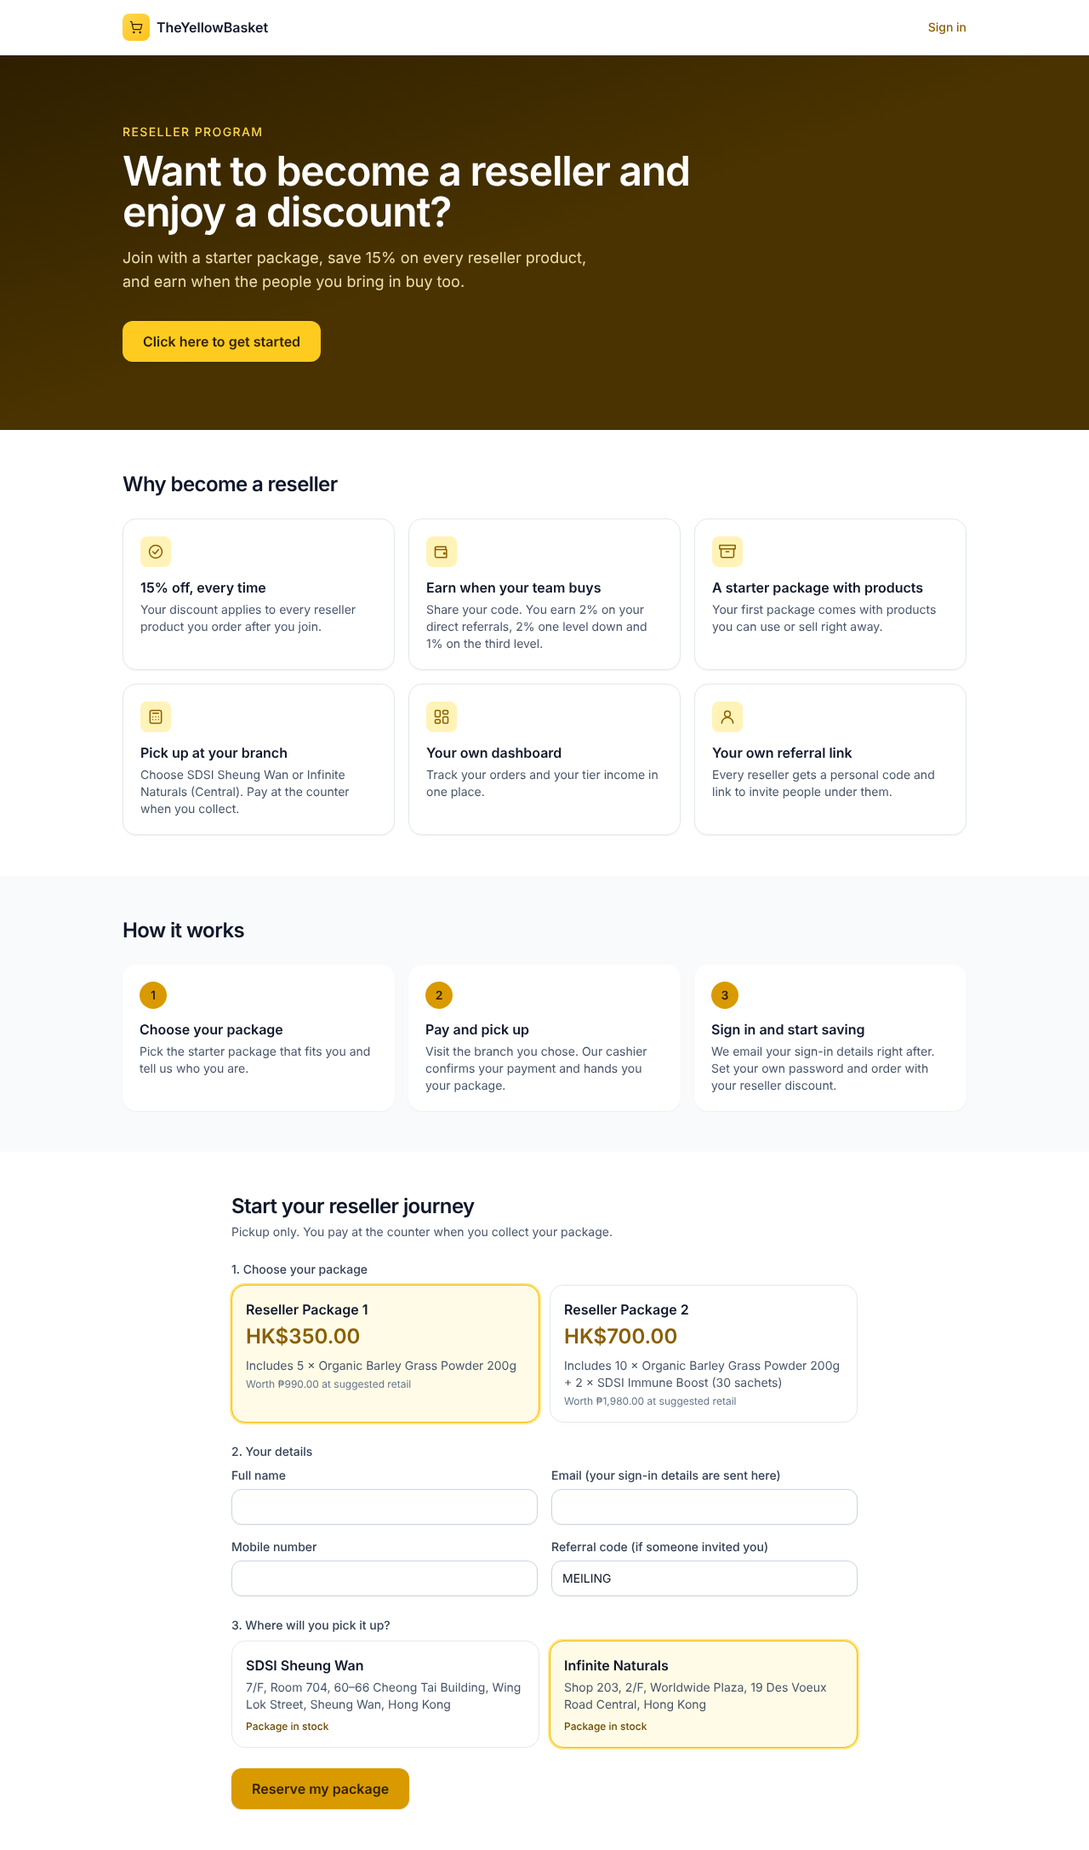
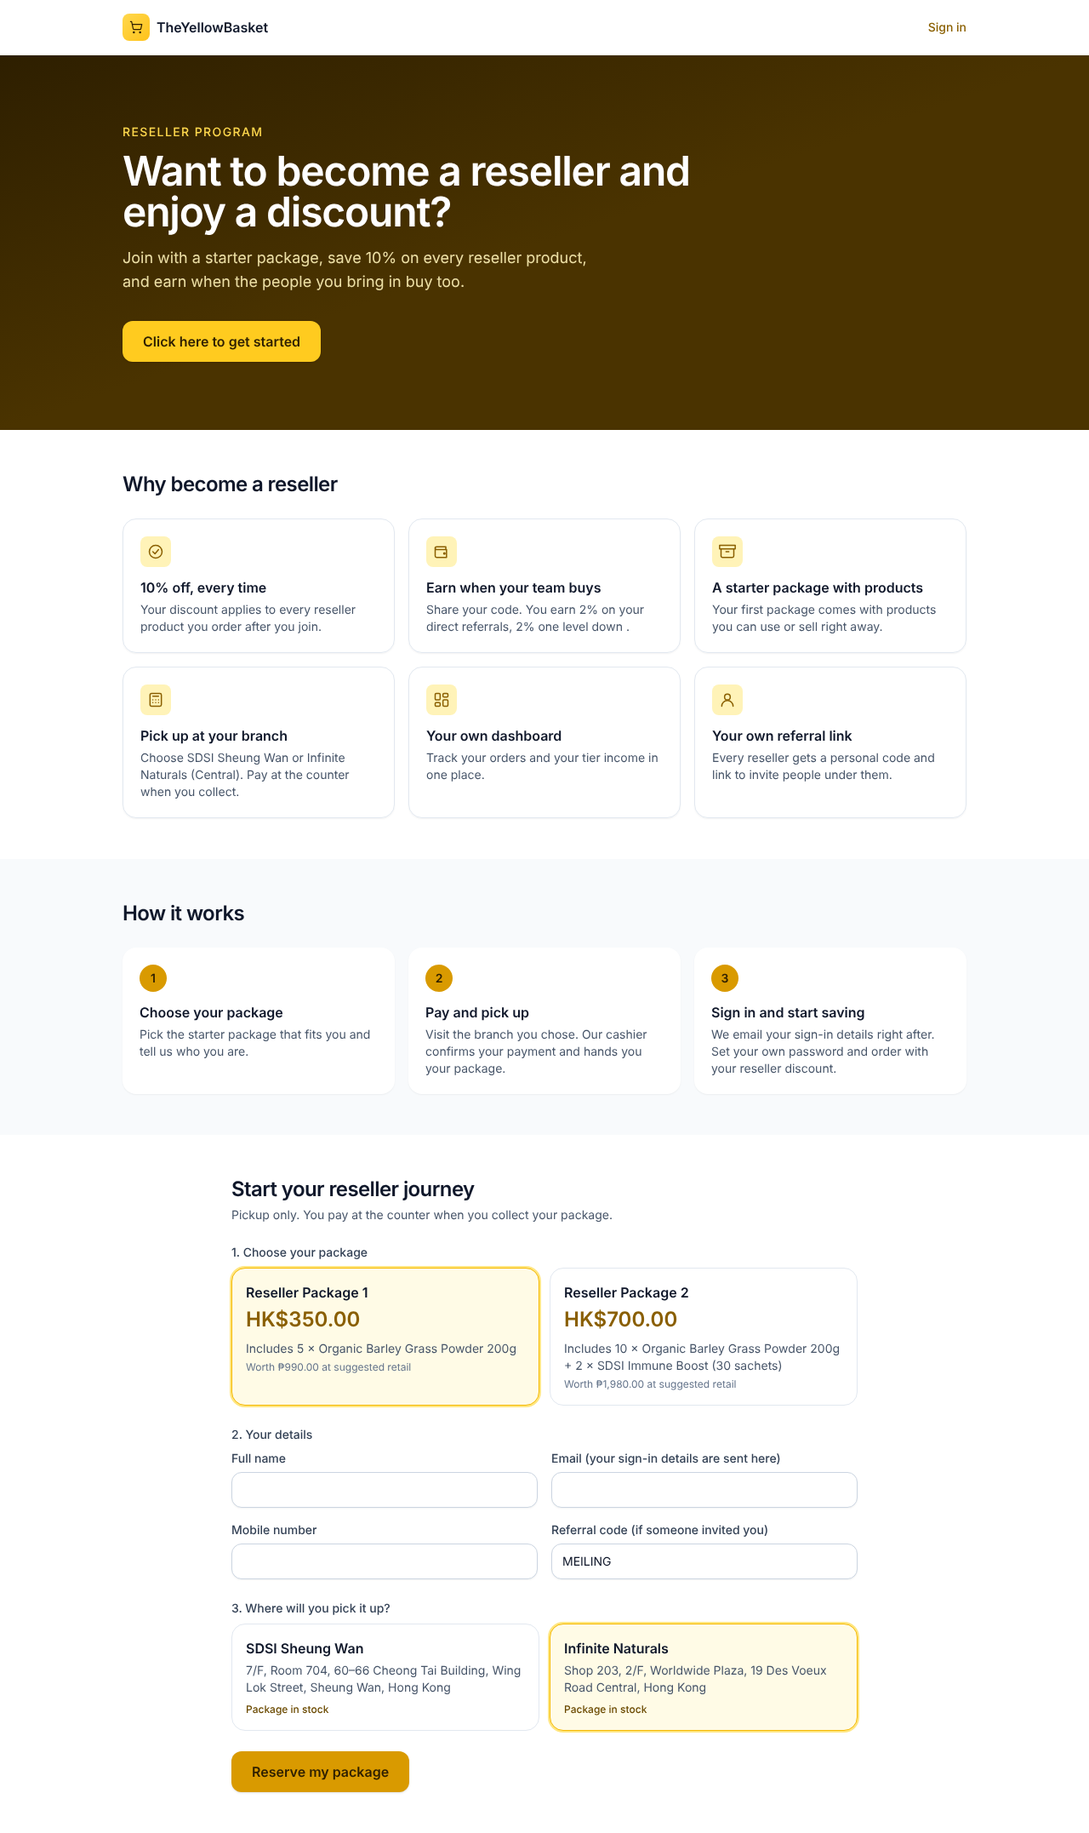
Tier levels 1-2 only (2%+2%), referrer and system fee settings, per-SKU net top-up columns and delivered income in Costing
Claude-Session: https://claude.ai/code/session_01PscwmJvon7EWf21vZUWiBD

diff --git a/lib/costing.ts b/lib/costing.ts
@@ -39,10 +39,13 @@ export interface CostingSettings {
   packageHkd: number;
   /** SRP basis of the package in PHP. The mark-up, the reseller share and the tier income are worked out on it. */
   packageSrpPhp: number;
-  /** Tier income of the upline, percent of the package SRP. Level 1, 2 and 3 above the buyer. Paid out of SDSI's top-up. */
+  /** Tier income of the upline, percent of the package SRP. Level 1 and 2 above the buyer. Paid out of SDSI's top-up. */
   tierL1Pct: number;
   tierL2Pct: number;
-  tierL3Pct: number;
+  /** Referrer share, percent of the SRP basis. Taken out of SDSI's top-up. */
+  referrerPct: number;
+  /** System fee, percent of the SRP basis. Taken out of SDSI's top-up. */
+  systemFeePct: number;
 }
 
 /** Values from the costing sheet. The exchange rate matches the sheet's 1,485 PHP = 182.36 HKD. */
@@ -53,12 +56,13 @@ export const DEFAULT_COSTING_SETTINGS: CostingSettings = {
   shippingFeeHkd: 34,
   cfRatePct: 2.5,
   cfMinHkd: 5,
-  resellerDiscountPct: 15,
+  resellerDiscountPct: 10,
   packageHkd: 350,
   packageSrpPhp: 990,
   tierL1Pct: 2,
   tierL2Pct: 2,
-  tierL3Pct: 1,
+  referrerPct: 5,
+  systemFeePct: 1,
 };
 
 /**
@@ -258,11 +262,11 @@ export function resellerCharges(
   };
 }
 
-/** Tier income of a purchase: each active sponsor above the buyer gets a percent of the SRP, levels 1 to 3. */
+/** Tier income of a purchase: each active sponsor above the buyer gets a percent of the SRP, levels 1 and 2. */
 export function orderTiers(settings: CostingSettings, upline: string[], srpPhp: number): TierShare[] {
-  const pcts = [settings.tierL1Pct, settings.tierL2Pct, settings.tierL3Pct];
-  return upline.slice(0, 3).map((userId, index) => ({
-    level: (index + 1) as 1 | 2 | 3,
+  const pcts = [settings.tierL1Pct, settings.tierL2Pct];
+  return upline.slice(0, 2).map((userId, index) => ({
+    level: (index + 1) as 1 | 2,
     userId,
     pct: pcts[index],
     php: roundMoney((srpPhp * pcts[index]) / 100),
@@ -330,7 +334,8 @@ const RANGES: Record<keyof CostingSettings, { label: string; min: number; max: n
   packageSrpPhp: { label: 'Package SRP', min: 0, max: 1_000_000 },
   tierL1Pct: { label: 'Tier level 1 %', min: 0, max: 50 },
   tierL2Pct: { label: 'Tier level 2 %', min: 0, max: 50 },
-  tierL3Pct: { label: 'Tier level 3 %', min: 0, max: 50 },
+  referrerPct: { label: 'Referrer %', min: 0, max: 50 },
+  systemFeePct: { label: 'System fee %', min: 0, max: 50 },
 };
 
 export const SETTING_LABEL: Record<keyof CostingSettings, string> = {
@@ -345,7 +350,8 @@ export const SETTING_LABEL: Record<keyof CostingSettings, string> = {
   packageSrpPhp: 'Reseller package SRP basis (PHP)',
   tierL1Pct: 'Tier income level 1 (% of package SRP)',
   tierL2Pct: 'Tier income level 2 (% of package SRP)',
-  tierL3Pct: 'Tier income level 3 (% of package SRP)',
+  referrerPct: 'Referrer (% of SRP basis)',
+  systemFeePct: 'System fees (% of SRP basis)',
 };
 
 export function validateSettings(patch: Partial<CostingSettings>): string | null {
@@ -382,7 +388,9 @@ export interface PackageBreakdown {
   grossPhp: number;
   resellerPhp: number;
   tierPoolPhp: number;
-  tiers: { level: 1 | 2 | 3; userId: string; pct: number; php: number }[];
+  referrerPhp: number;
+  systemFeePhp: number;
+  tiers: { level: 1 | 2; userId: string; pct: number; php: number }[];
   /** SDSI's net: gross top-up, less the reseller share and the tier income actually paid. */
   netPhp: number;
 }
@@ -394,31 +402,35 @@ export interface PackageBreakdown {
  */
 export function packageBreakdown(settings: CostingSettings, upline: string[]): PackageBreakdown {
   const srp = settings.packageSrpPhp;
-  const pcts = [settings.tierL1Pct, settings.tierL2Pct, settings.tierL3Pct];
-  const tiers = upline.slice(0, 3).map((userId, index) => ({
-    level: (index + 1) as 1 | 2 | 3,
+  const pcts = [settings.tierL1Pct, settings.tierL2Pct];
+  const tiers = upline.slice(0, 2).map((userId, index) => ({
+    level: (index + 1) as 1 | 2,
     userId,
     pct: pcts[index],
     php: roundMoney((srp * pcts[index]) / 100),
   }));
   const grossPhp = roundMoney((srp * settings.markupPct) / 100);
   const resellerPhp = roundMoney((srp * settings.resellerDiscountPct) / 100);
+  const referrerPhp = roundMoney((srp * settings.referrerPct) / 100);
+  const systemFeePhp = roundMoney((srp * settings.systemFeePct) / 100);
   const paid = roundMoney(tiers.reduce((sum, tier) => sum + tier.php, 0));
   return {
     grossPhp,
     resellerPhp,
     tierPoolPhp: roundMoney((srp * pcts.reduce((a, b) => a + b, 0)) / 100),
+    referrerPhp,
+    systemFeePhp,
     tiers,
-    netPhp: roundMoney(grossPhp - resellerPhp - paid),
+    netPhp: roundMoney(grossPhp - resellerPhp - referrerPhp - systemFeePhp - paid),
   };
 }
 
-/** The active resellers above a buyer, nearest first, up to 3 levels. A sponsor who is not active yet is skipped. */
+/** The active resellers above a buyer, nearest first, up to 2 levels. A sponsor who is not active yet is skipped. */
 export function uplineOf(users: User[], activeIds: Set<string>, buyerId: string): string[] {
   const chain: string[] = [];
   const seen = new Set<string>([buyerId]);
   let current = users.find((user) => user.id === buyerId)?.sponsorId;
-  while (current && !seen.has(current) && chain.length < 3) {
+  while (current && !seen.has(current) && chain.length < 2) {
     seen.add(current);
     if (activeIds.has(current)) chain.push(current);
     current = users.find((user) => user.id === current)?.sponsorId;
@@ -452,4 +464,48 @@ export function makePackageSale(
     tiers: split.tiers,
     netPhp: split.netPhp,
   };
+}
+
+/** Income sheet of one SKU, worked out on its Net SRP (990 -> top-up 495, reseller 99, referrer 49.5, tier 39.6, fees 9.9, net 297). */
+export interface SkuIncome {
+  grossTopUpPhp: number;
+  resellerPhp: number;
+  referrerPhp: number;
+  tierPhp: number;
+  systemFeePhp: number;
+  deductionsPhp: number;
+  netTopUpPhp: number;
+  /** Net top-up as a percent of the Net SRP. */
+  netPct: number;
+}
+
+export function skuIncome(netSrpPhp: number, settings: CostingSettings): SkuIncome {
+  const part = (pct: number) => roundMoney((netSrpPhp * pct) / 100);
+  const grossTopUpPhp = part(settings.markupPct);
+  const resellerPhp = part(settings.resellerDiscountPct);
+  const referrerPhp = part(settings.referrerPct);
+  const tierPhp = part(settings.tierL1Pct + settings.tierL2Pct);
+  const systemFeePhp = part(settings.systemFeePct);
+  const deductionsPhp = roundMoney(resellerPhp + referrerPhp + tierPhp + systemFeePhp);
+  const netTopUpPhp = roundMoney(grossTopUpPhp - deductionsPhp);
+  return {
+    grossTopUpPhp,
+    resellerPhp,
+    referrerPhp,
+    tierPhp,
+    systemFeePhp,
+    deductionsPhp,
+    netTopUpPhp,
+    netPct: netSrpPhp > 0 ? roundMoney((netTopUpPhp / netSrpPhp) * 100) : 0,
+  };
+}
+
+/** Settings from storage may lack newer fields (or hold removed ones): fill from the defaults. */
+export function normalizeSettings(saved: Record<string, unknown> | undefined): CostingSettings {
+  const next = { ...DEFAULT_COSTING_SETTINGS } as unknown as Record<string, number>;
+  for (const key of Object.keys(DEFAULT_COSTING_SETTINGS)) {
+    const value = saved?.[key];
+    if (typeof value === 'number' && Number.isFinite(value)) next[key] = value;
+  }
+  return next as unknown as CostingSettings;
 }

diff --git a/components/accounting/CostingView.tsx b/components/accounting/CostingView.tsx
@@ -11,6 +11,7 @@ import {
   computeCosting,
   validatePickupPrice,
   validateSettings,
+  skuIncome,
   type CostingSettings,
 } from '@/lib/costing';
 import { formatCurrency, formatDateTime, formatHkd } from '@/lib/format';
@@ -212,6 +213,7 @@ function CostingEditor() {
     setSkuCategory,
     setSkuPackage,
     addSku,
+    orders,
   } = useAppData();
 
   const [prices, setPrices] = useState<Record<string, string>>({});
@@ -225,6 +227,25 @@ function CostingEditor() {
   const [srpError, setSrpError] = useState<string | null>(null);
 
   const saved = costing.settings;
+
+  // Income earned: every delivered unit of an approved or live SKU brings in its net top-up. Packages count in package sales.
+  const earned = useMemo(() => {
+    const byItem = new Map<string, { units: number; php: number }>();
+    const counted = new Set(costing.rows.filter((r) => r.status !== 'draft').map((r) => r.itemId));
+    const packageIds = new Set(items.filter((i) => i.package).map((i) => i.id));
+    let total = 0;
+    for (const order of orders) {
+      if (order.status !== 'delivered') continue;
+      for (const line of order.lines) {
+        if (!counted.has(line.itemId) || packageIds.has(line.itemId)) continue;
+        const php = skuIncome(line.total, costing.settings).netTopUpPhp;
+        const cur = byItem.get(line.itemId) ?? { units: 0, php: 0 };
+        byItem.set(line.itemId, { units: cur.units + line.quantity, php: cur.php + php });
+        total += php;
+      }
+    }
+    return { byItem, total: Math.round(total * 100) / 100 };
+  }, [orders, items, costing.rows, costing.settings]);
 
   // Settings as they would be after saving. A box that is empty or not valid keeps the saved value.
   const settingErrors: Partial<Record<keyof CostingSettings, string>> = {};
@@ -533,6 +554,9 @@ function CostingEditor() {
           ))}
           <span className="text-slate-400">Use the merchant filter or search above to pick which SKUs.</span>
         </div>
+        <div className="border-b border-slate-100 bg-emerald-50/60 px-5 py-2.5 text-xs text-emerald-800">
+          Net income from delivered orders (approved and live SKUs, packages excluded): <strong>{formatCurrency(earned.total)}</strong>
+        </div>
         <div className="overflow-x-auto">
           <table className="min-w-full text-sm">
             <thead className="bg-slate-50 text-xs font-semibold uppercase tracking-wide text-slate-500">
@@ -549,6 +573,15 @@ function CostingEditor() {
                 <th className="px-3 py-3 text-right">CF ({preview.cfRatePct}%, min {preview.cfMinHkd})</th>
                 <th className="px-3 py-3 text-right">Net COD (HKD)</th>
                 <th className="px-3 py-3 text-right">Net remittance (PHP)</th>
+                <th className="px-3 py-3 text-right">SDSI gross top-up</th>
+                <th className="px-3 py-3 text-right">Reseller discount {preview.resellerDiscountPct}%</th>
+                <th className="px-3 py-3 text-right">Referrer {preview.referrerPct}%</th>
+                <th className="px-3 py-3 text-right">Tier (1-2) {preview.tierL1Pct + preview.tierL2Pct}%</th>
+                <th className="px-3 py-3 text-right">System fees {preview.systemFeePct}%</th>
+                <th className="px-3 py-3 text-right">Net top-up (income)</th>
+                <th className="px-3 py-3 text-right">Net %</th>
+                <th className="px-3 py-3 text-right">Delivered (pcs)</th>
+                <th className="px-3 py-3 text-right">Income earned (PHP)</th>
                 <th className="px-3 py-3 text-left">Status</th>
                 <th className="px-3 py-3" />
               </tr>
@@ -556,7 +589,7 @@ function CostingEditor() {
             <tbody className="divide-y divide-slate-100">
               {rows.length === 0 ? (
                 <tr>
-                  <td colSpan={14} className="px-5 py-10 text-center text-slate-500">
+                  <td colSpan={23} className="px-5 py-10 text-center text-slate-500">
                     No costing rows match.
                   </td>
                 </tr>
@@ -704,6 +737,15 @@ function CostingEditor() {
                         {result.netCodHkd === null ? '—' : result.netCodHkd.toFixed(2)}
                       </td>
                       <td className="px-3 py-3 text-right">{formatCurrency(result.netRemittancePhp)}</td>
+                      <td className="px-3 py-3 text-right">{formatCurrency(skuIncome(result.netSrpPhp, preview).grossTopUpPhp)}</td>
+                      <td className="px-3 py-3 text-right">{formatCurrency(skuIncome(result.netSrpPhp, preview).resellerPhp)}</td>
+                      <td className="px-3 py-3 text-right">{formatCurrency(skuIncome(result.netSrpPhp, preview).referrerPhp)}</td>
+                      <td className="px-3 py-3 text-right">{formatCurrency(skuIncome(result.netSrpPhp, preview).tierPhp)}</td>
+                      <td className="px-3 py-3 text-right">{formatCurrency(skuIncome(result.netSrpPhp, preview).systemFeePhp)}</td>
+                      <td className="px-3 py-3 text-right font-semibold text-emerald-700">{formatCurrency(skuIncome(result.netSrpPhp, preview).netTopUpPhp)}</td>
+                      <td className="px-3 py-3 text-right">{skuIncome(result.netSrpPhp, preview).netPct}%</td>
+                      <td className="px-3 py-3 text-right">{item.package ? '—' : earned.byItem.get(item.id)?.units ?? 0}</td>
+                      <td className="px-3 py-3 text-right font-semibold">{item.package ? '—' : formatCurrency(earned.byItem.get(item.id)?.php ?? 0)}</td>
                       <td className="min-w-[10rem] px-3 py-3">
                         {(() => {
                           const dirty = changed || Boolean(error);

diff --git a/components/resellers/ResellersView.tsx b/components/resellers/ResellersView.tsx
@@ -16,7 +16,7 @@ export function ResellersView() {
   const { users, items, orders, packageSales, costing, outbox } = useAppData();
   const { settings } = costing;
   const nameOf = (id: string) => users.find((candidate) => candidate.id === id)?.name ?? id;
-  const ledger = useMemo(() => resellerLedger(orders, packageSales, items, settings.markupPct), [orders, packageSales, items, settings.markupPct]);
+  const ledger = useMemo(() => resellerLedger(orders, packageSales, items, settings.markupPct, settings.referrerPct + settings.systemFeePct), [orders, packageSales, items, settings.markupPct, settings.referrerPct, settings.systemFeePct]);
   const summaries = useMemo(() => resellerSummaries(users, ledger, packageSales, orders), [users, ledger, packageSales, orders]);
   if (!user) return null;
   const showPeso = user.role === 'admin';
@@ -24,13 +24,13 @@ export function ResellersView() {
   const counted = ledger.filter((row) => row.counted);
   const sum = (pick: (row: (typeof ledger)[number]) => number) => counted.reduce((total, row) => total + pick(row), 0);
   const tierPaid = sum((row) => row.tiers.reduce((t, tier) => t + tier.php, 0));
-  const tierPct = settings.tierL1Pct + settings.tierL2Pct + settings.tierL3Pct;
+  const tierPct = settings.tierL1Pct + settings.tierL2Pct;
 
   return (
     <div className="space-y-6">
       <PageHeader
         title="Resellers"
-        description={`Buying the reseller package (${formatHkd(settings.packageHkd)}) makes someone a reseller. Every purchase after that has ${settings.resellerDiscountPct}% off, and ${tierPct}% of the SRP goes to the 3 sponsors above (L1 ${settings.tierL1Pct}% · L2 ${settings.tierL2Pct}% · L3 ${settings.tierL3Pct}%). All of it comes out of SDSI's ${settings.markupPct}% top-up.`}
+        description={`Buying the reseller package (${formatHkd(settings.packageHkd)}) makes someone a reseller. Every purchase after that has ${settings.resellerDiscountPct}% off, and ${tierPct}% of the SRP goes to the 2 sponsors above (L1 ${settings.tierL1Pct}% · L2 ${settings.tierL2Pct}%). All of it comes out of SDSI's ${settings.markupPct}% top-up.`}
       />
 
       {showPeso ? (

diff --git a/components/landing/BecomeReseller.tsx b/components/landing/BecomeReseller.tsx
@@ -20,7 +20,7 @@ const STEPS = [
 /** Public page: no sign-in. Someone who wants to become a reseller picks a package and leaves their details. */
 export function BecomeReseller() {
   const { items, products, costing, orders, applyForReseller } = useAppData();
-  const { resellerDiscountPct, tierL1Pct, tierL2Pct, tierL3Pct } = costing.settings;
+  const { resellerDiscountPct, tierL1Pct, tierL2Pct } = costing.settings;
   const packages = useMemo(() => items.filter((item) => item.package && isSellable(item, costing)), [items, costing]);
 
   const [itemId, setItemId] = useState('');
@@ -54,7 +54,7 @@ export function BecomeReseller() {
 
   const benefits = [
     { icon: 'check' as const, title: `${resellerDiscountPct}% off, every time`, text: 'Your discount applies to every reseller product you order after you join.' },
-    { icon: 'wallet' as const, title: 'Earn when your team buys', text: `Share your code. You earn ${tierL1Pct}% on your direct referrals, ${tierL2Pct}% one level down and ${tierL3Pct}% on the third level.` },
+    { icon: 'wallet' as const, title: 'Earn when your team buys', text: `Share your code. You earn ${tierL1Pct}% on your direct referrals, ${tierL2Pct}% one level down .` },
     { icon: 'box' as const, title: 'A starter package with products', text: 'Your first package comes with products you can use or sell right away.' },
     { icon: 'pos' as const, title: 'Pick up at your branch', text: 'Choose SDSI Sheung Wan or Infinite Naturals (Central). Pay at the counter when you collect.' },
     { icon: 'dashboard' as const, title: 'Your own dashboard', text: 'Track your orders and your tier income in one place.' },

diff --git a/components/accounting/PackageIncomeCard.tsx b/components/accounting/PackageIncomeCard.tsx
@@ -13,15 +13,17 @@ export function PackageIncomeCard() {
   const { costing, packageSales, orders, items } = useAppData();
   const { settings } = costing;
   const srp = settings.packageSrpPhp;
-  const sample = packageBreakdown(settings, ['sample-1', 'sample-2', 'sample-3']);
-  const counted = resellerLedger(orders, packageSales, items, settings.markupPct).filter((row) => row.counted);
+  const sample = packageBreakdown(settings, ['sample-1', 'sample-2']);
+  const counted = resellerLedger(orders, packageSales, items, settings.markupPct, settings.referrerPct + settings.systemFeePct).filter((row) => row.counted);
   const sum = (pick: (row: (typeof counted)[number]) => number) => counted.reduce((total, row) => total + pick(row), 0);
   const srpTotal = sum((row) => row.srpPhp);
   const tierPaid = sum((row) => row.tiers.reduce((t, tier) => t + tier.php, 0));
   const rows: [string, number, number][] = [
     ['Top-up (gross)', sample.grossPhp, srp],
     [`Reseller ${settings.resellerDiscountPct}%`, -sample.resellerPhp, srp],
-    [`Tier income ${settings.tierL1Pct + settings.tierL2Pct + settings.tierL3Pct}% (L1 ${settings.tierL1Pct} / L2 ${settings.tierL2Pct} / L3 ${settings.tierL3Pct})`, -sample.tierPoolPhp, srp],
+    [`Referrer ${settings.referrerPct}%`, -sample.referrerPhp, srp],
+    [`System fees ${settings.systemFeePct}%`, -sample.systemFeePhp, srp],
+    [`Tier income ${settings.tierL1Pct + settings.tierL2Pct}% (L1 ${settings.tierL1Pct} / L2 ${settings.tierL2Pct})`, -sample.tierPoolPhp, srp],
     ['SDSI net', sample.netPhp, srp],
   ];
   const actual: [string, number][] = [

diff --git a/lib/server/repo.ts b/lib/server/repo.ts
@@ -3,7 +3,7 @@
  * Server only. Runs inside a transaction that holds an advisory lock, so two people acting at the
  * same moment are handled one after the other and never overwrite each other.
  */
-import { DEFAULT_COSTING_SETTINGS } from '../costing';
+import { DEFAULT_COSTING_SETTINGS, normalizeSettings } from '../costing';
 import type { AppState } from '../engine';
 import { normalizeCategory, type Merchant } from '../types';
 import { normalizeProduct } from '../stock';
@@ -58,7 +58,7 @@ export async function loadAll(q: Db): Promise<Loaded> {
   for (const row of rows) {
     const data = row.data as Rec;
     if (row.kind === 'merchant') merchants.push(data as unknown as Merchant);
-    else if (row.kind === 'costing') state.costing = data as unknown as AppState['costing'];
+    else if (row.kind === 'costing') { const c = data as unknown as AppState['costing']; state.costing = { ...c, settings: normalizeSettings(c.settings as unknown as Record<string, unknown>) }; }
     else if (row.kind === 'meta' && row.id === 'poSeq') state.poSeq = Number((data as { value?: number }).value ?? 0);
     else if (row.kind in LISTS) buckets.set(row.kind, [...(buckets.get(row.kind) ?? []), data]);
   }

diff --git a/lib/reseller.ts b/lib/reseller.ts
@@ -23,7 +23,7 @@ export interface LedgerRow {
 
 const sumTiers = (tiers: TierShare[]) => roundMoney(tiers.reduce((total, tier) => total + tier.php, 0));
 
-export function resellerLedger(orders: Order[], sales: PackageSale[], items: InventoryItem[], markupPct: number): LedgerRow[] {
+export function resellerLedger(orders: Order[], sales: PackageSale[], items: InventoryItem[], markupPct: number, extraPct = 0): LedgerRow[] {
   const packageIds = new Set(items.filter((item) => item.package).map((item) => item.id));
   const rows: LedgerRow[] = sales.map((sale) => ({
     kind: 'Package',
@@ -60,7 +60,7 @@ export function resellerLedger(orders: Order[], sales: PackageSale[], items: Inv
       topUpPhp: topUp,
       discountPhp: discount,
       tiers,
-      netPhp: roundMoney(topUp - discount - sumTiers(tiers)),
+      netPhp: roundMoney(topUp - discount - sumTiers(tiers) - (srp * extraPct) / 100),
       counted: order.status === 'delivered',
     });
   }

diff --git a/lib/types.ts b/lib/types.ts
@@ -373,7 +373,7 @@ export interface Remittance {
 
 /** Tier income of one upline reseller on one purchase. */
 export interface TierShare {
-  level: 1 | 2 | 3;
+  level: 1 | 2;
   userId: string;
   pct: number;
   php: number;
@@ -393,7 +393,7 @@ export interface PackageSale {
   grossPhp: number;
   resellerPhp: number;
   /** Tier income paid to the upline, level 1 to 3. */
-  tiers: { level: 1 | 2 | 3; userId: string; pct: number; php: number }[];
+  tiers: { level: 1 | 2; userId: string; pct: number; php: number }[];
   netPhp: number;
   paymentMethod?: PaymentMethod;
   /** The package order this sale came from. */
